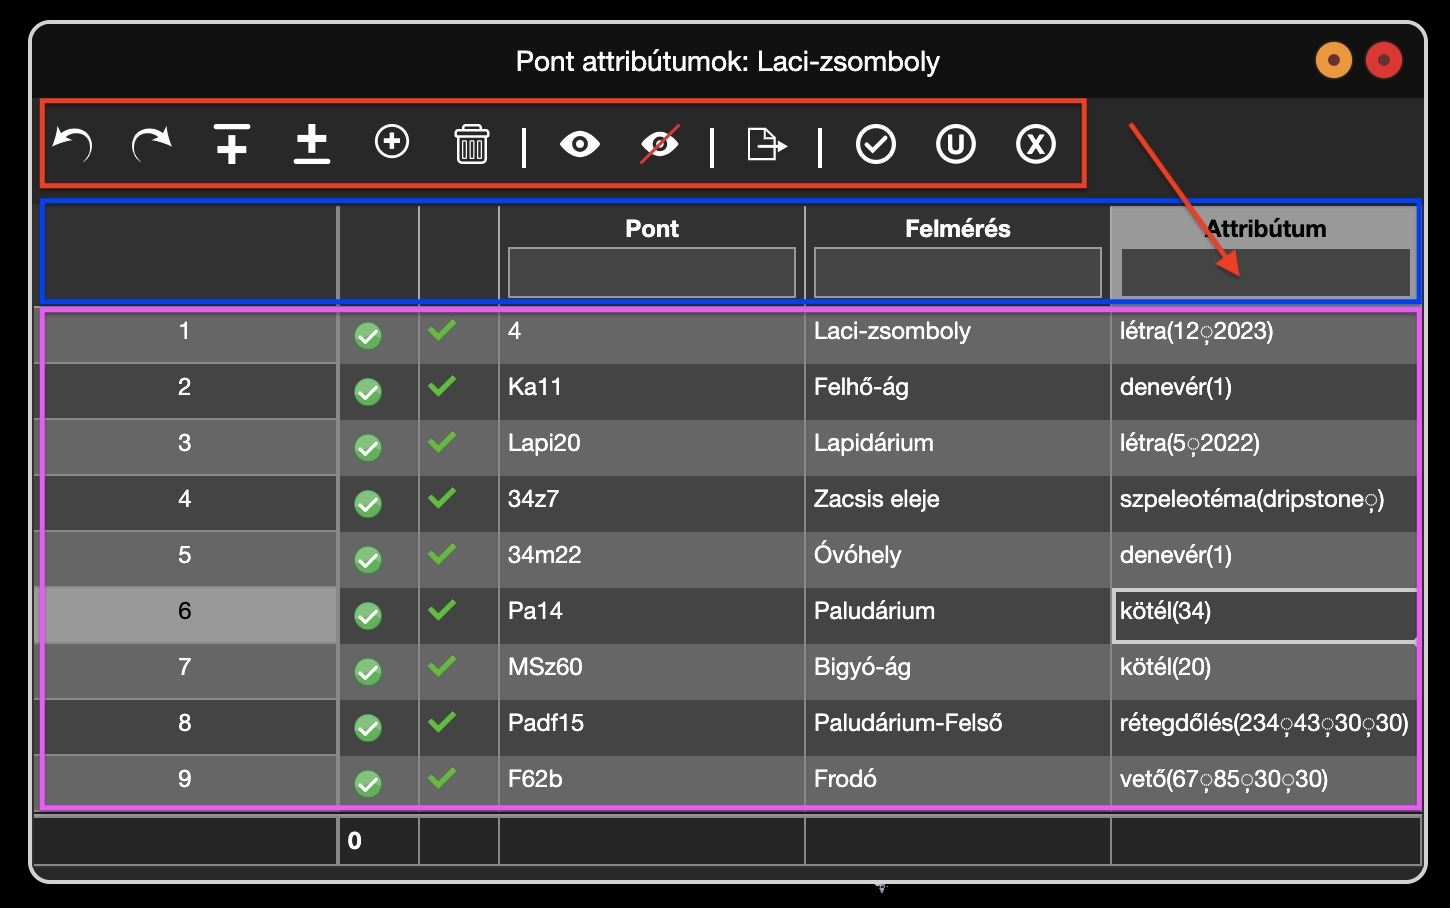
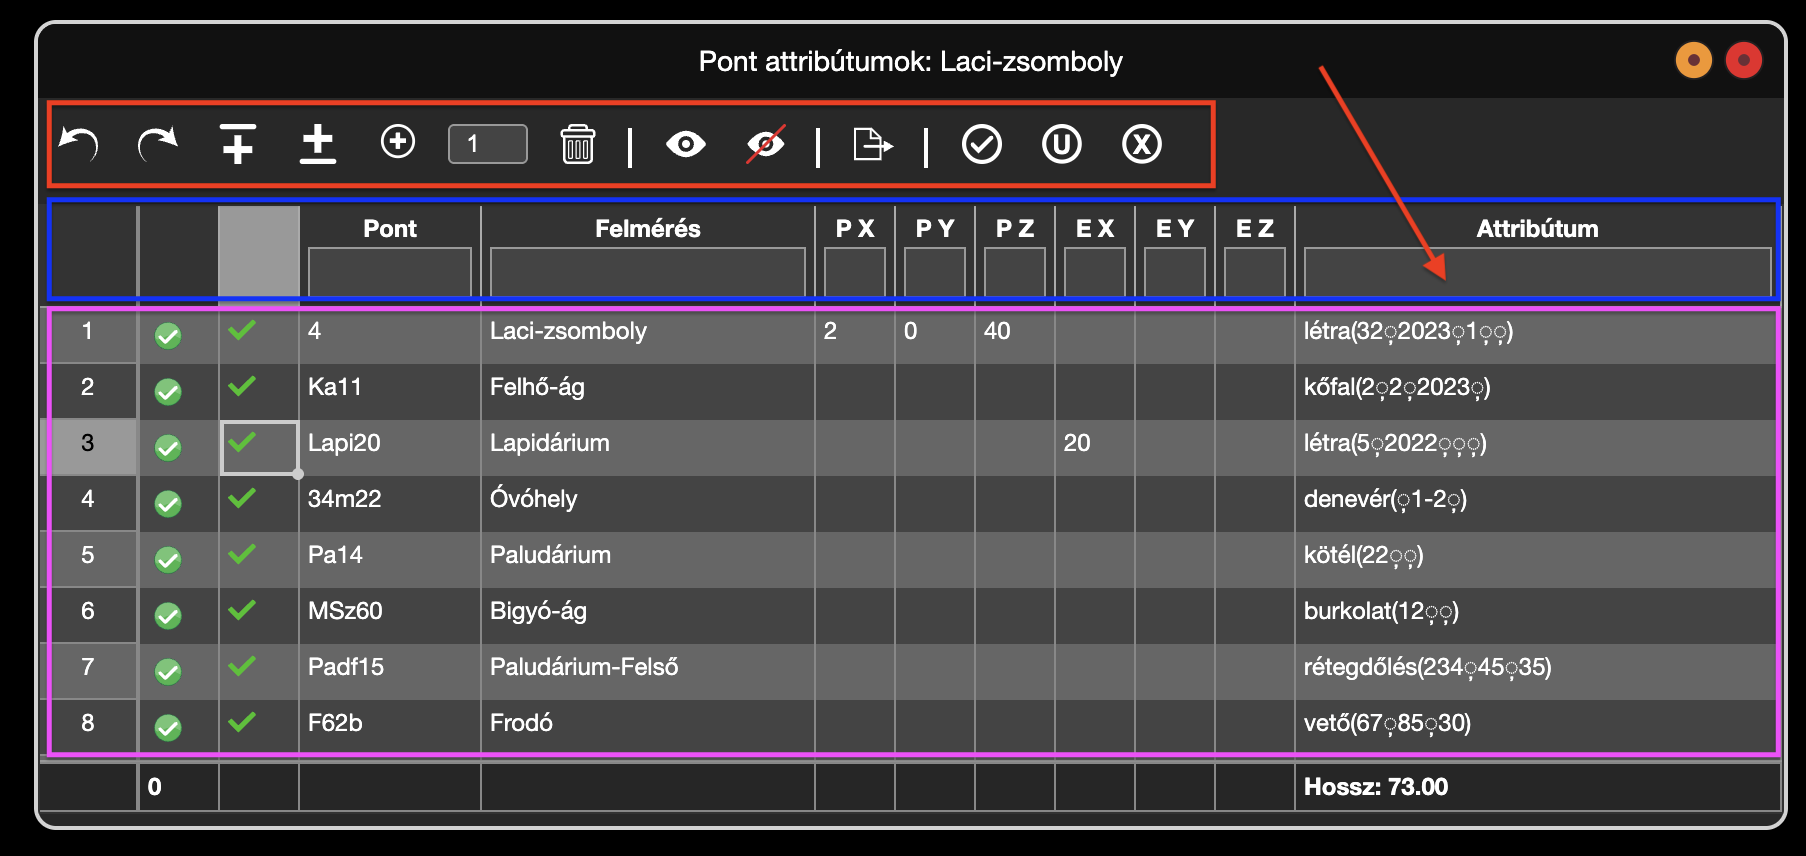
manual: update attribute page with offset and position

diff --git a/manual/hu/08-attributumok.html b/manual/hu/08-attributumok.html
@@ -191,7 +191,34 @@
             attribútum neve után zárójelben a paraméterek listája következik egy speciális ◌̦ karakterrel
             elválasztva.</li
           >
+          <li
+            ><strong>P X, P Y, P Z:</strong> Pozíció koordináták - A megjelenített ikon/sík/kép/nyíl abszolút pozíciója
+            a attribútumhoz rendelt pont koordinátái helyett. Helyi 3D koordináták, méterben megadva, mindhárom
+            koordináta szükséges.</li
+          >
+          <li
+            ><strong>E X, E Y, E Z:</strong> Eltolás koordináták - A megjelenített ikon/sík/kép/nyíl az attribútumhoz
+            rendelt pont koordinátáihoz képest eltolva jelenik meg X, Y vagy Z irányban. Egy eltolás érték megadása
+            elegendő, nem szükséges mindhárom kitöltése. Az értékek méterben értendők.</li
+          >
         </ul>
+      </div>
+
+      <div class="info">
+        <h4>💡 Pozíció és eltolás használata</h4>
+        <p>
+          A pozíció és eltolás oszlopok segítségével pontosan elhelyezhetjük az attribútum vizualizációját a 3D
+          jelenetben. Ez különösen hasznos, ha:
+        </p>
+        <ul>
+          <li>Az attribútum ikont el szeretnénk mozdítani a ponttól, hogy ne takarjon el más elemeket</li>
+          <li>A rétegdőlés vagy vető síkját pontosabban szeretnénk pozícionálni</li>
+          <li>Fotó attribútumot szeretnénk a megfelelő helyre tenni</li>
+        </ul>
+        <p>
+          <strong>Megjegyzés:</strong> A pozíció és eltolás egyszerre nem adható meg - vagy abszolút pozíciót, vagy
+          relatív eltolást használjunk!
+        </p>
       </div>
 
       <div class="editor-box">
@@ -397,6 +424,15 @@
           >
           <li><strong>Formátum:</strong> A szakasz címke testreszabását teszi lehetővé</li>
           <li><strong>Interpolált:</strong> A szakasz címke formátumnak megfelelő testreszabott értéke</li>
+          <li
+            ><strong>P X, P Y, P Z:</strong> Pozíció koordináták - a címke megjelenítésének abszolút pozíciója a 3D
+            térben. Ha meg van adva, a címke ezen a pozíción jelenik meg a szakasz közepének automatikusan számított
+            pozíciója helyett. Helyi 3D koordináták, méterben megadva, mindhárom koordináta szükséges.</li
+          >
+          <li
+            ><strong>E X, E Y, E Z:</strong> Eltolás koordináták - a címke megjelenítésének relatív eltolása az
+            automatikusan számított pozíciótól méterben.</li
+          >
         </ul>
       </div>
 
@@ -502,6 +538,15 @@
           >
           <li><strong>Formátum:</strong> A komponens címke testreszabását teszi lehetővé</li>
           <li><strong>Interpolált:</strong> A komponens címke formátumnak megfelelő testreszabott értéke</li>
+          <li
+            ><strong>P X, P Y, P Z:</strong> Pozíció koordináták - a címke megjelenítésének abszolút pozíciója a 3D
+            térben. Ha meg van adva, a címke ezen a pozíción jelenik meg a komponens középpontjának automatikusan
+            számított pozíciója helyett. Helyi 3D koordináták, méterben megadva, mindhárom koordináta szükséges.</li
+          >
+          <li
+            ><strong>E X, E Y, E Z:</strong> Eltolás koordináták - a címke megjelenítésének relatív eltolása az
+            automatikusan számított pozíciótól méterben.</li
+          >
         </ul>
       </div>
 

diff --git a/manual/hu/11-exportalas.html b/manual/hu/11-exportalas.html
@@ -481,4 +481,3 @@
     </div>
   </body>
 </html>
-
